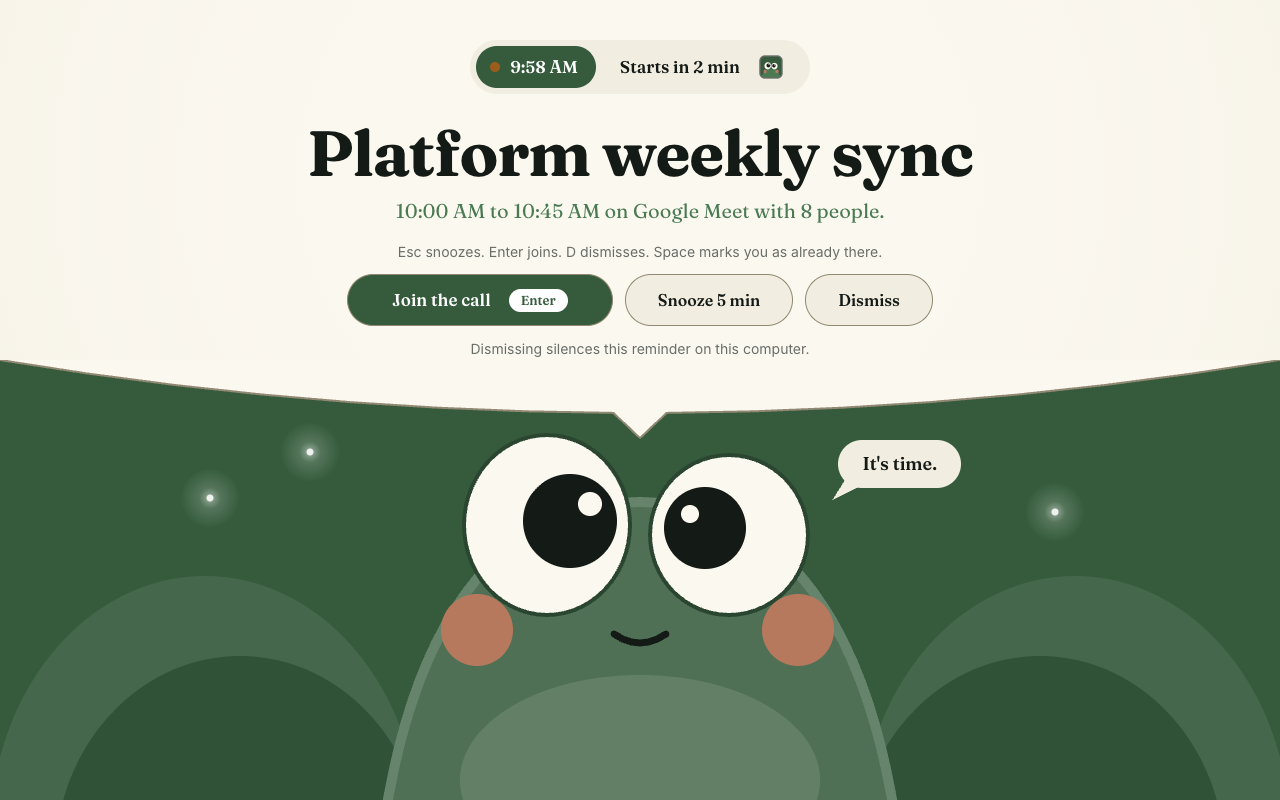
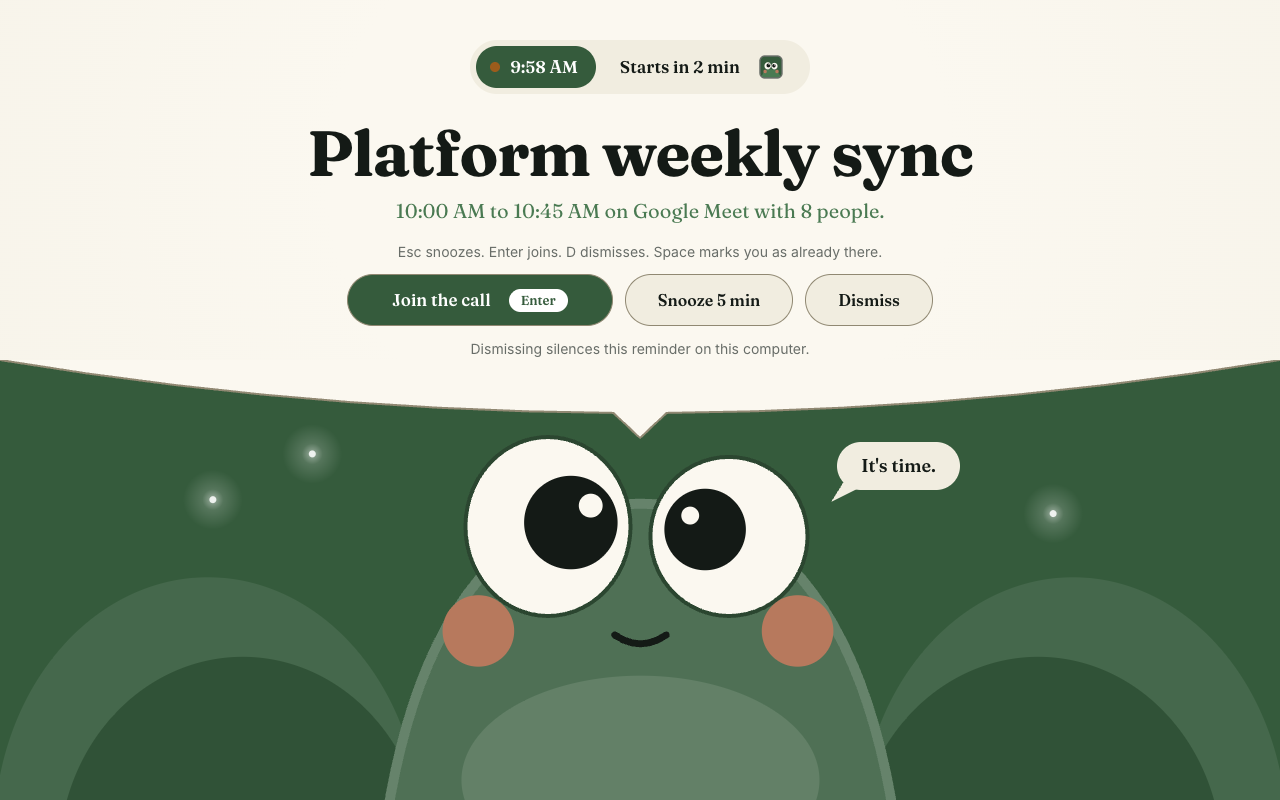
[L-070] Peek stands on the bottom edge on every aspect ratio
Split PeekScene into the page's curve (stretches across the width at the page
edge) and the character (mounds, fireflies, Peek, bubble) in a wrapper anchored
to the bottom with xMidYMax. The hill is the background of .tl-peek between
them, so portrait screens get no empty band under Peek. Peek scales with the
width and stops at 45vh, which keeps it clear of the buttons; the bubble is
placed in percent of the character's box. RTL mirroring, the card variant,
L-062 edge and glows, contrast and L-045 sizes are unchanged. Tests pin the
split, the bottom anchoring and the cap. README Peek shot regenerated.

diff --git a/ui/src/pages/PeekScene.tsx b/ui/src/pages/PeekScene.tsx
@@ -10,53 +10,60 @@ export const peekColor = (color: InterruptColor): InterruptColor => (color === "
 /**
  * The moss hill with the Peek character, after the poll's mockup (decision "The poll picks Peek"). Inline
  * SVG drawn with Swiss Moss tokens only (local.css, `.tl-peek`); decorative, so hidden from screen readers.
- * The coordinates are design pixels at 1280 wide; the art scales with the window's width. No motion: the
- * fireflies are still, soft glows (a radial gradient of the text colour), so nothing needs a reduced-motion
- * variant. `card` is the small picture in the Appearance and first-run previews (L-062).
+ * The coordinates are design pixels at 1280 wide. Two pieces (L-070): the page's curve and pointer stay at the
+ * page edge and stretch across the width; the character (mounds, fireflies, Peek, bubble) is anchored to the
+ * bottom of the window (`xMidYMax`) and scales with the width up to a maximum height, and the hill is the
+ * background between them. No motion: the fireflies are still, soft glows (a radial gradient of the text colour),
+ * so nothing needs a reduced-motion variant. `card` is the small picture in the Appearance and first-run
+ * previews (L-062).
  */
 export function PeekScene({ color, say, card = false }: { color: InterruptColor; say: string; card?: boolean }) {
   const glow = `tl-peek-glow-${useId().replace(/:/g, "")}`;
   return (
     <div className={card ? "tl-peek tl-peek-card" : "tl-peek"} aria-hidden="true" data-color={peekColor(color)} data-tokens="light">
-      <svg className="tl-peek-art" viewBox="0 0 1280 600" focusable="false">
-        <defs>
-          <radialGradient id={glow}>
-            <stop className="tl-peek-glow-core" offset="0" />
-            <stop className="tl-peek-glow-mid" offset="0.35" />
-            <stop className="tl-peek-glow-rim" offset="1" />
-          </radialGradient>
-        </defs>
-        <ellipse className="tl-peek-mound" cx="205" cy="476" rx="215" ry="260" />
-        <ellipse className="tl-peek-mound" cx="1075" cy="476" rx="215" ry="260" />
-        <ellipse className="tl-peek-shade" cx="240" cy="500" rx="185" ry="204" />
-        <ellipse className="tl-peek-shade" cx="1040" cy="500" rx="185" ry="204" />
+      <svg className="tl-peek-curve" viewBox="0 0 1280 78" focusable="false">
         {/* The page bulges into the hill and points at Peek. */}
         <path className="tl-peek-page" d="M0 -2H1280V0Q640 106 0 0ZM676 44L640 78L604 44Z" />
         {/* The page's edge, so a hill the colour of the page (Ink on dark, Paper on light) still reads. The pointer's top is not stroked. */}
         <path className="tl-peek-edge" d="M0 0Q306.7 50.8 613.4 52.9L640 78L666.6 52.9Q973.3 50.8 1280 0" />
-        <g className="tl-peek-glow" fill={`url(#${glow})`}>
-          <circle cx="310" cy="92" r="30" />
-          <circle cx="210" cy="138" r="30" />
-          <circle cx="1055" cy="152" r="30" />
-        </g>
-        <g className="tl-peek-fly">
-          <circle cx="310" cy="92" r="3.5" />
-          <circle cx="210" cy="138" r="3.5" />
-          <circle cx="1055" cy="152" r="3.5" />
-        </g>
-        <path className="tl-peek-dome" d="M372 640C372 380 440 142 640 142S908 380 908 640Z" />
-        <ellipse className="tl-peek-belly" cx="640" cy="420" rx="180" ry="105" />
-        <ellipse className="tl-peek-eye" cx="547" cy="165" rx="83" ry="90" />
-        <ellipse className="tl-peek-eye" cx="729" cy="175" rx="79" ry="80" />
-        <circle className="tl-peek-pupil" cx="570" cy="161" r="47" />
-        <circle className="tl-peek-pupil" cx="705" cy="168" r="41" />
-        <circle className="tl-peek-shine" cx="590" cy="144" r="12" />
-        <circle className="tl-peek-shine" cx="690" cy="154" r="9" />
-        <circle className="tl-peek-cheek" cx="477" cy="270" r="36" />
-        <circle className="tl-peek-cheek" cx="798" cy="270" r="36" />
-        <path className="tl-peek-smile" d="M614 274Q640 292 666 274" />
       </svg>
-      <p className="tl-peek-say">{say}</p>
+      <div className="tl-peek-char">
+        <svg className="tl-peek-art" viewBox="0 78 1280 362" preserveAspectRatio="xMidYMax meet" focusable="false">
+          <defs>
+            <radialGradient id={glow}>
+              <stop className="tl-peek-glow-core" offset="0" />
+              <stop className="tl-peek-glow-mid" offset="0.35" />
+              <stop className="tl-peek-glow-rim" offset="1" />
+            </radialGradient>
+          </defs>
+          <ellipse className="tl-peek-mound" cx="205" cy="476" rx="215" ry="260" />
+          <ellipse className="tl-peek-mound" cx="1075" cy="476" rx="215" ry="260" />
+          <ellipse className="tl-peek-shade" cx="240" cy="500" rx="185" ry="204" />
+          <ellipse className="tl-peek-shade" cx="1040" cy="500" rx="185" ry="204" />
+          <g className="tl-peek-glow" fill={`url(#${glow})`}>
+            <circle cx="310" cy="92" r="30" />
+            <circle cx="210" cy="138" r="30" />
+            <circle cx="1055" cy="152" r="30" />
+          </g>
+          <g className="tl-peek-fly">
+            <circle cx="310" cy="92" r="3.5" />
+            <circle cx="210" cy="138" r="3.5" />
+            <circle cx="1055" cy="152" r="3.5" />
+          </g>
+          <path className="tl-peek-dome" d="M372 640C372 380 440 142 640 142S908 380 908 640Z" />
+          <ellipse className="tl-peek-belly" cx="640" cy="420" rx="180" ry="105" />
+          <ellipse className="tl-peek-eye" cx="547" cy="165" rx="83" ry="90" />
+          <ellipse className="tl-peek-eye" cx="729" cy="175" rx="79" ry="80" />
+          <circle className="tl-peek-pupil" cx="570" cy="161" r="47" />
+          <circle className="tl-peek-pupil" cx="705" cy="168" r="41" />
+          <circle className="tl-peek-shine" cx="590" cy="144" r="12" />
+          <circle className="tl-peek-shine" cx="690" cy="154" r="9" />
+          <circle className="tl-peek-cheek" cx="477" cy="270" r="36" />
+          <circle className="tl-peek-cheek" cx="798" cy="270" r="36" />
+          <path className="tl-peek-smile" d="M614 274Q640 292 666 274" />
+        </svg>
+        <p className="tl-peek-say">{say}</p>
+      </div>
     </div>
   );
 }

diff --git a/ui/src/peek.test.ts b/ui/src/peek.test.ts
@@ -160,7 +160,7 @@ describe("the Peek reminder (AC4.3, AC4.4, L-050)", () => {
     initCopy("en-US");
     const html = view(true);
     const scene = /<div class="tl-peek" aria-hidden="true"[^>]*>.*<\/div>/.exec(html)?.[0] ?? "";
-    expect(scene).toContain('<svg class="tl-peek-art" viewBox="0 0 1280 600" focusable="false">');
+    expect(scene).toContain('<svg class="tl-peek-art" viewBox="0 78 1280 362" preserveAspectRatio="xMidYMax meet" focusable="false">');
     for (const part of ["eye", "pupil", "shine", "cheek", "smile", "dome"]) expect(scene).toContain(`tl-peek-${part}`);
     expect(scene).toContain('<p class="tl-peek-say">It&#x27;s time.</p>');
     // Colours come from local.css: no fill or stroke in the markup but the fireflies' gradient reference (L-062), and nothing moves.
@@ -191,5 +191,46 @@ describe("the Peek reminder (AC4.3, AC4.4, L-050)", () => {
     expect(view(true)).toContain('<p class="tl-peek-say">حان الوقت.</p>');
     expect(local).toMatch(/:root:lang\(ar\) \{[^}]*--sm-font-display: "Inter Tight", Inter, "Noto Sans Arabic"/);
     expect(local).toMatch(/:root\[dir="rtl"\]\[data-style="peek"\] \.tl-peek-art \{\s*transform: scaleX\(-1\);/);
+  });
+});
+
+describe("Peek stands on the bottom edge on every aspect ratio (L-070)", () => {
+  const peekBlock = () => local.slice(local.indexOf(" * Peek (L-050"), local.indexOf(" * Right to left"));
+  const rule = (selector: string) => new RegExp(`\\n\\[data-style="peek"\\] ${selector.replace(/\./g, "\\.")} \\{([^}]*)\\}`).exec(peekBlock())?.[1] ?? "";
+
+  it("splits the page's curve from the character: two SVGs, the bubble inside the character's box", () => {
+    initCopy("en-US");
+    const scene = /<div class="tl-peek" aria-hidden="true"[^>]*>.*<\/div>/.exec(view(true))?.[0] ?? "";
+    const curve = /<svg class="tl-peek-curve"[^>]*>.*?<\/svg>/.exec(scene)?.[0] ?? "";
+    const char = /<div class="tl-peek-char">.*<\/div>/.exec(scene)?.[0] ?? "";
+    expect(curve).toContain('viewBox="0 0 1280 78"');
+    for (const part of ["page", "edge"]) expect(curve).toContain(`tl-peek-${part}`);
+    for (const part of ["dome", "mound", "eye", "fly"]) expect(curve).not.toContain(`tl-peek-${part}`);
+    for (const part of ["dome", "mound", "eye", "fly", "say"]) expect(char).toContain(`tl-peek-${part}`);
+    expect(char).not.toContain("tl-peek-page");
+    expect(scene.indexOf("tl-peek-curve")).toBeLessThan(scene.indexOf("tl-peek-char"));
+  });
+
+  it("anchors the character to the bottom: xMidYMax, margin-top auto in a column, the hill as the background", () => {
+    initCopy("en-US");
+    expect(view(true)).toContain('preserveAspectRatio="xMidYMax meet"');
+    expect(rule(".tl-peek")).toMatch(/display: flex;\s*flex-direction: column;/);
+    expect(rule(".tl-peek")).toContain("background: var(--tl-bg);");
+    expect(rule(".tl-peek-char")).toContain("margin-top: auto;");
+    expect(rule(".tl-peek-curve")).toMatch(/width: 100%;/);
+  });
+
+  it("scales with the width and stops at 45vh, so the buttons stay clear", () => {
+    const char = rule(".tl-peek-char");
+    expect(char).toContain("width: min(100%, calc(45vh * 1280 / 362));");
+    expect(char).toContain("aspect-ratio: 1280 / 362;");
+    // The bubble is placed in percent of that box, so it follows Peek at any size.
+    expect(rule(".tl-peek-say")).toMatch(/top: 0\.5%;\s*inset-inline-start: calc\(50% \+ 15\.5%\);/);
+    expect(rule(".tl-peek-say")).not.toMatch(/vw/);
+  });
+
+  it("the card keeps its crop: the character fills the card's width and the card cuts its foot", () => {
+    expect(local).toMatch(/\[data-style="peek"\] \.tl-peek-card \.tl-peek-char \{\s*width: 100%;/);
+    expect(local).toMatch(/\[data-style="peek"\] \.tl-peek-card \{[^}]*aspect-ratio: 1280 \/ 340;/);
   });
 });

diff --git a/ui/src/styles/local.css b/ui/src/styles/local.css
@@ -884,18 +884,44 @@
   font-size: calc(13 * var(--tl-c));
   font-weight: 600;
 }
-/* The hill fills the rest of the window, edge to edge; the art scales with the window's width. */
+/*
+ * The hill (L-070): the background of everything below the page's edge, edge to edge. The page's curve is the top of this
+ * box and stretches across the width; the character stands on its bottom edge on every aspect ratio, scales with the
+ * width and is capped at 45% of the window's height (362 of 1280 design pixels tall, so 45vh is 159vh wide), which keeps
+ * it clear of the buttons. When the rows above leave less room than that, the hill crops the character's foot, as before.
+ */
 [data-style="peek"] .tl-peek {
   position: relative;
   grid-row: 4;
   justify-self: stretch;
+  display: flex;
+  flex-direction: column;
   overflow: hidden;
   background: var(--tl-bg);
+}
+[data-style="peek"] .tl-peek-curve {
+  display: block;
+  flex: none;
+  width: 100%;
+  height: auto;
+  aspect-ratio: 1280 / 78;
+  /* The edge's 2 px stroke and the pointer's tip are drawn on the outline. */
+  overflow: visible;
+}
+[data-style="peek"] .tl-peek-char {
+  position: relative;
+  flex: none;
+  align-self: center;
+  margin-top: auto;
+  width: min(100%, calc(45vh * 1280 / 362));
+  aspect-ratio: 1280 / 362;
 }
 [data-style="peek"] .tl-peek-art {
   display: block;
   width: 100%;
-  height: auto;
+  height: 100%;
+  /* The mounds and the foot run past the box; the hill crops them at the window's bottom. */
+  overflow: visible;
 }
 /* Mirrored for right to left, with the speech bubble on the other side. */
 :root[dir="rtl"][data-style="peek"] .tl-peek-art {
@@ -972,11 +998,11 @@
   stop-color: var(--tl-fg);
   stop-opacity: 0;
 }
-/* "It's time." beside Peek (198 and 80 design pixels from the top centre, at 1280 wide). */
+/* "It's time." beside Peek (198 design pixels from the centre and 2 from the top, at 1280 wide), in percent of the character's box. */
 [data-style="peek"] .tl-peek-say {
   position: absolute;
-  top: 6.25vw;
-  inset-inline-start: calc(50% + 15.5vw);
+  top: 0.5%;
+  inset-inline-start: calc(50% + 15.5%);
   margin: 0;
   padding: calc(10 * var(--tl-c)) calc(24 * var(--tl-c));
   border-radius: var(--sm-radius-pill);
@@ -1079,14 +1105,13 @@
   background: var(--tl-bg);
   color: var(--tl-fg);
 }
-/* The hill, cropped to Peek's head: the bulge, the eyes and the cheeks; the bubble is placed in percent of the card. */
+/* The hill, cropped to Peek's head: the bulge, the eyes and the cheeks, as at the reminder's 1280 width. */
 [data-style="peek"] .tl-peek-card {
   --tl-c: 0.6px;
   aspect-ratio: 1280 / 340;
 }
-[data-style="peek"] .tl-peek-card .tl-peek-say {
-  top: 23.5%;
-  inset-inline-start: calc(50% + 15.5%);
+[data-style="peek"] .tl-peek-card .tl-peek-char {
+  width: 100%;
 }
 
 /*
